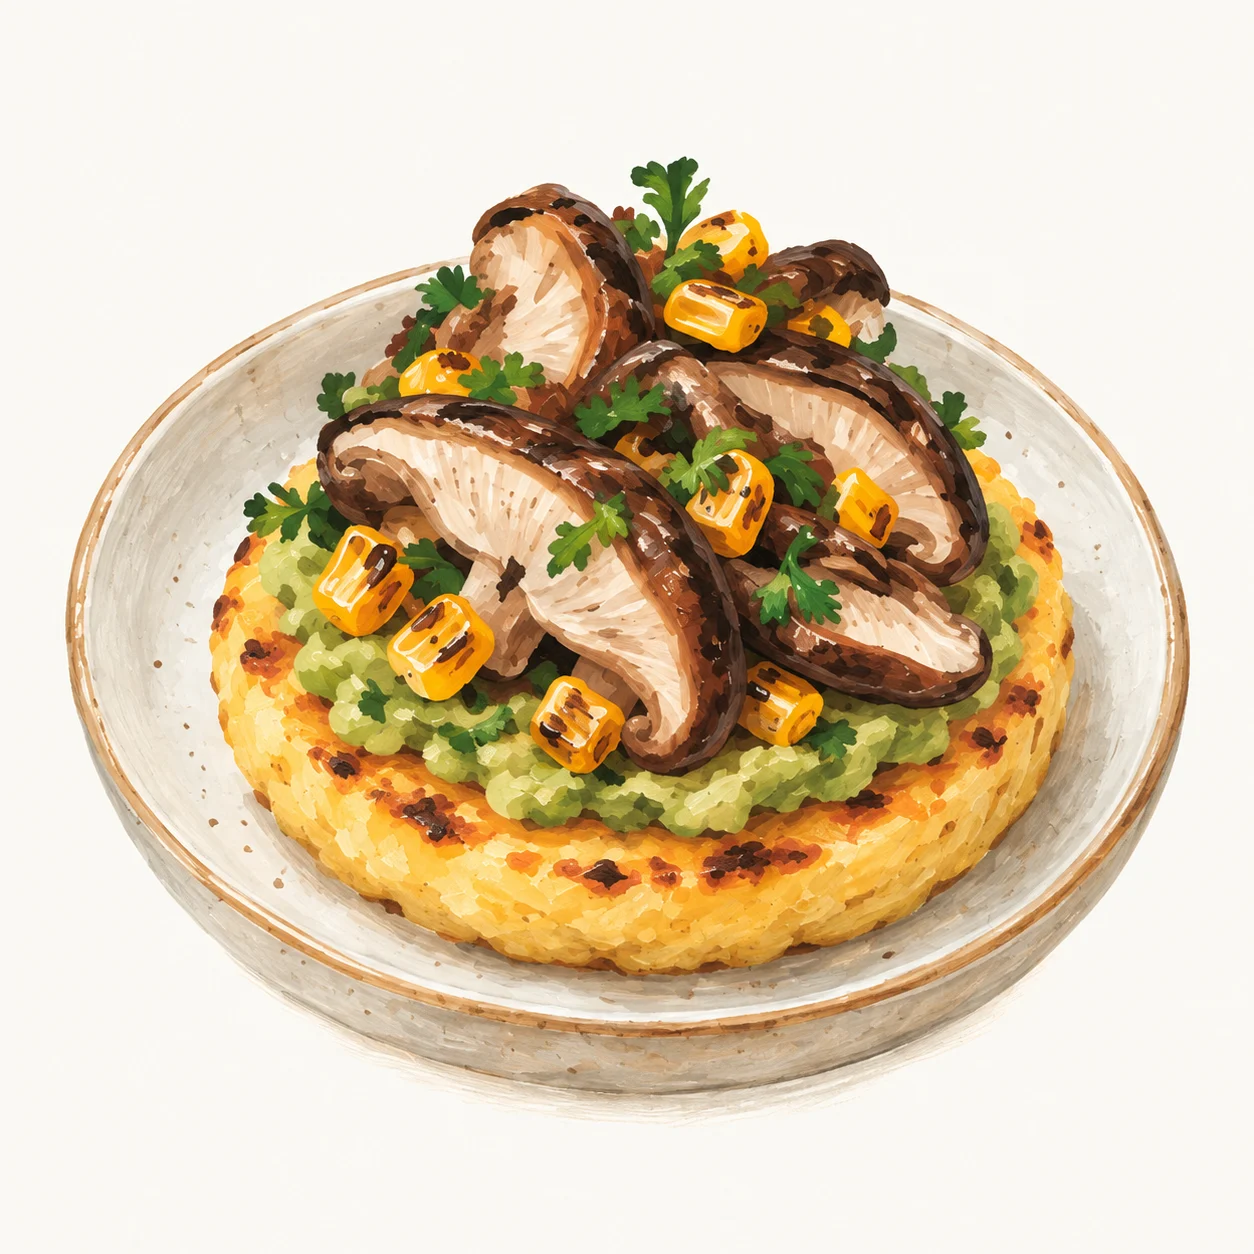
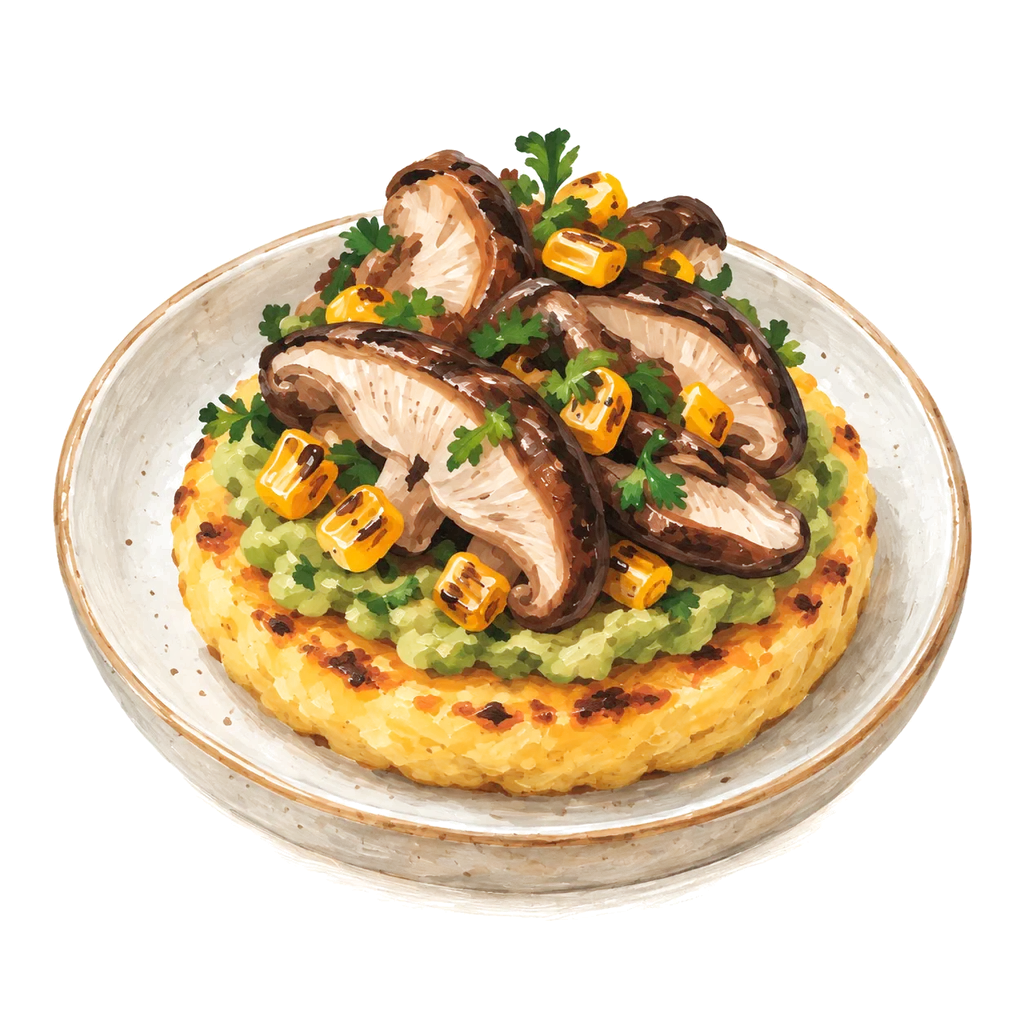
fix(web): make culinary illustrations true-alpha, drop blend hacks
The 21 gouache dishes were opaque with a paper tone slightly off the page
and relied on multiply/darken, tinting a visible box on recipe plates.
Convert them to RGBA via colour-to-alpha (scripts/brand/culinary_to_alpha.py),
downscale to 1024px, and remove the blend modes on culinary figures.

diff --git a/website.css b/website.css
@@ -274,10 +274,9 @@ dialog > img { height: 200px; width: 100%; object-fit: contain; mix-blend-mode: 
 }
 /* Culinary gouache complements the contained specimen engravings. */
 .culinary-figure { margin: 0; background: var(--surface-page); }
-.culinary-figure img { display: block; width: 100%; object-fit: contain; mix-blend-mode: multiply; }
+.culinary-figure img { display: block; width: 100%; object-fit: contain; }
 .culinary-figure figcaption { font: var(--t-small); color: var(--text-secondary); margin-top: 12px; }
 .kitchen-plate.culinary-figure { border: var(--rule-hairline); background: var(--surface-recessed); }
-.kitchen-plate.culinary-figure img { mix-blend-mode: darken; }
 .kitchen-plate.culinary-figure figcaption { display: flex; flex-wrap: wrap; justify-content: space-between; gap: 12px; }
 .recipe-main-plate { padding: 32px; border: var(--rule-hairline); align-self: start; }
 .recipe-main-plate figcaption { display: flex; flex-wrap: wrap; justify-content: space-between; align-items: baseline; gap: 12px; border-top: var(--rule-hairline); padding-top: 24px; }

diff --git a/scripts/brand/culinary_to_alpha.py b/scripts/brand/culinary_to_alpha.py
@@ -1,0 +1,40 @@
+"""Convierte las ilustraciones culinarias (fondo de papel opaco) a RGBA real.
+
+Estima el color de papel de cada imagen por su borde, lo normaliza a blanco y
+aplica color-a-alfa: el pigmento queda con su opacidad y el papel desaparece.
+Así componen sobre cualquier superficie sin mix-blend-mode. Uso:
+  python3 scripts/brand/culinary_to_alpha.py [dir]
+Idempotente: omite archivos que ya tienen alfa.
+"""
+import sys, pathlib
+import numpy as np
+from PIL import Image
+
+MAX = 1024  # las láminas se muestran a ≤ ~520 px CSS; 1024 cubre 2x
+LOW, HIGH = 0.025, 0.06  # rampa que absorbe el grano del papel
+
+def convert(path):
+    im = Image.open(path)
+    if im.mode == "RGBA" and np.asarray(im)[..., 3].min() < 255:
+        return False
+    a = np.asarray(im.convert("RGB"), dtype=np.float64) / 255
+    border = np.concatenate([a[:6].reshape(-1, 3), a[-6:].reshape(-1, 3), a[:, :6].reshape(-1, 3), a[:, -6:].reshape(-1, 3)])
+    bg = np.median(border, axis=0)
+    p = np.clip(a / bg, 0, 1)
+    d = 1 - p
+    alpha = d.max(axis=2)
+    safe = np.maximum(alpha, 1e-6)[..., None]
+    color = np.clip(1 - d / safe, 0, 1)
+    # bajo LOW el grano del papel es transparente; hasta HIGH sube en rampa
+    ramp = np.clip((alpha - LOW) / (HIGH - LOW), 0, 1) * HIGH
+    alpha = np.where(alpha >= HIGH, alpha, ramp)
+    out = np.dstack([color, alpha[..., None]])
+    res = Image.fromarray((out * 255 + .5).astype(np.uint8), "RGBA")
+    if res.width > MAX:
+        res = res.resize((MAX, round(res.height * MAX / res.width)), Image.LANCZOS)
+    res.save(path, "WEBP", quality=72, alpha_quality=75, method=6)
+    return True
+
+root = pathlib.Path(sys.argv[1] if len(sys.argv) > 1 else "assets/illustrations/culinary")
+for f in sorted(root.glob("*.webp")):
+    print(("alpha " if convert(f) else "skip  ") + f.name)
